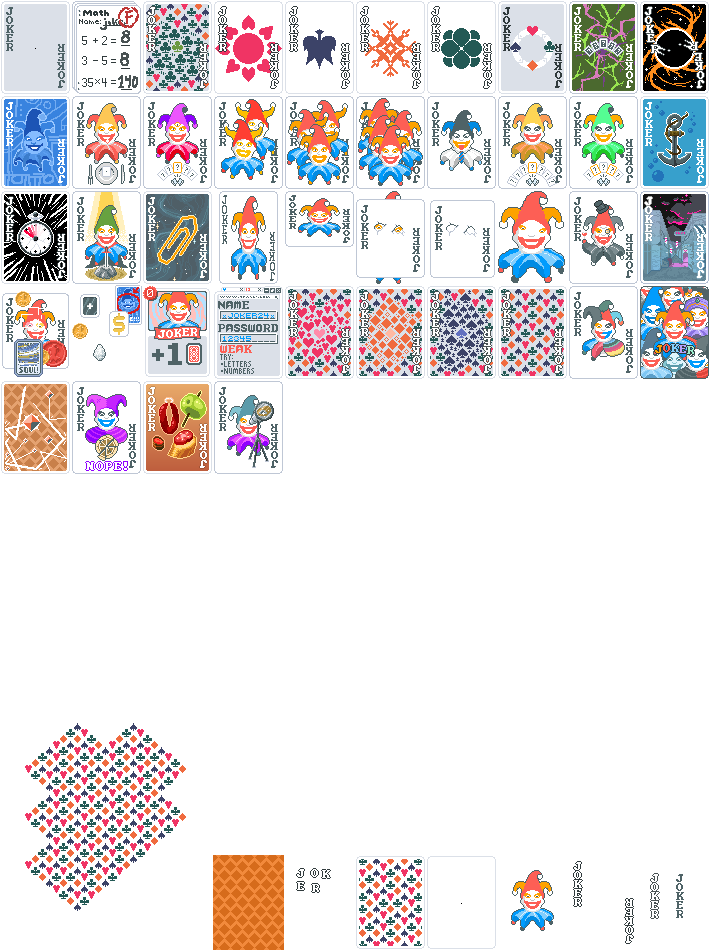
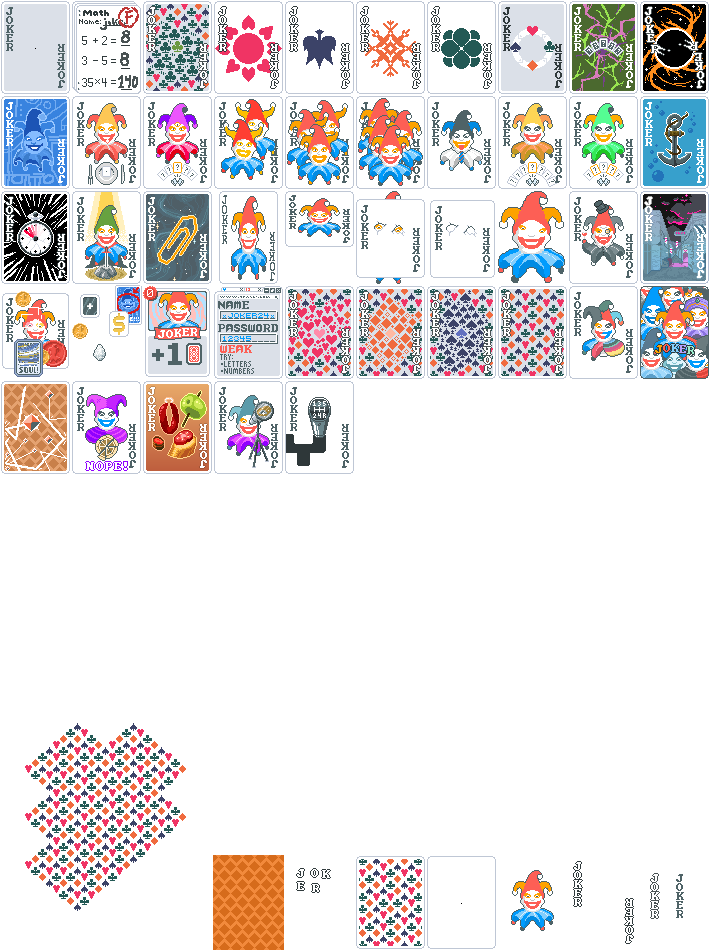
Add Gearbox

diff --git a/web/addjokers.js b/web/addjokers.js
@@ -377,7 +377,15 @@ let jokers = [
     image_url: "img/j/stargazer.png",
     rarity: "Common"
   },
-
+  {
+    name: "Gearbox",
+    text: [
+      "{X:mult,C:white}+X0.2{} Mult for each joker to the right",
+      "{X:mult,C:white}-X0.2{} Mult for each joker to the left",
+    ],
+    image_url: "img/j/gearbox.png",
+    rarity: "Uncommon"
+  },
 
   // {
   //   name: "",
